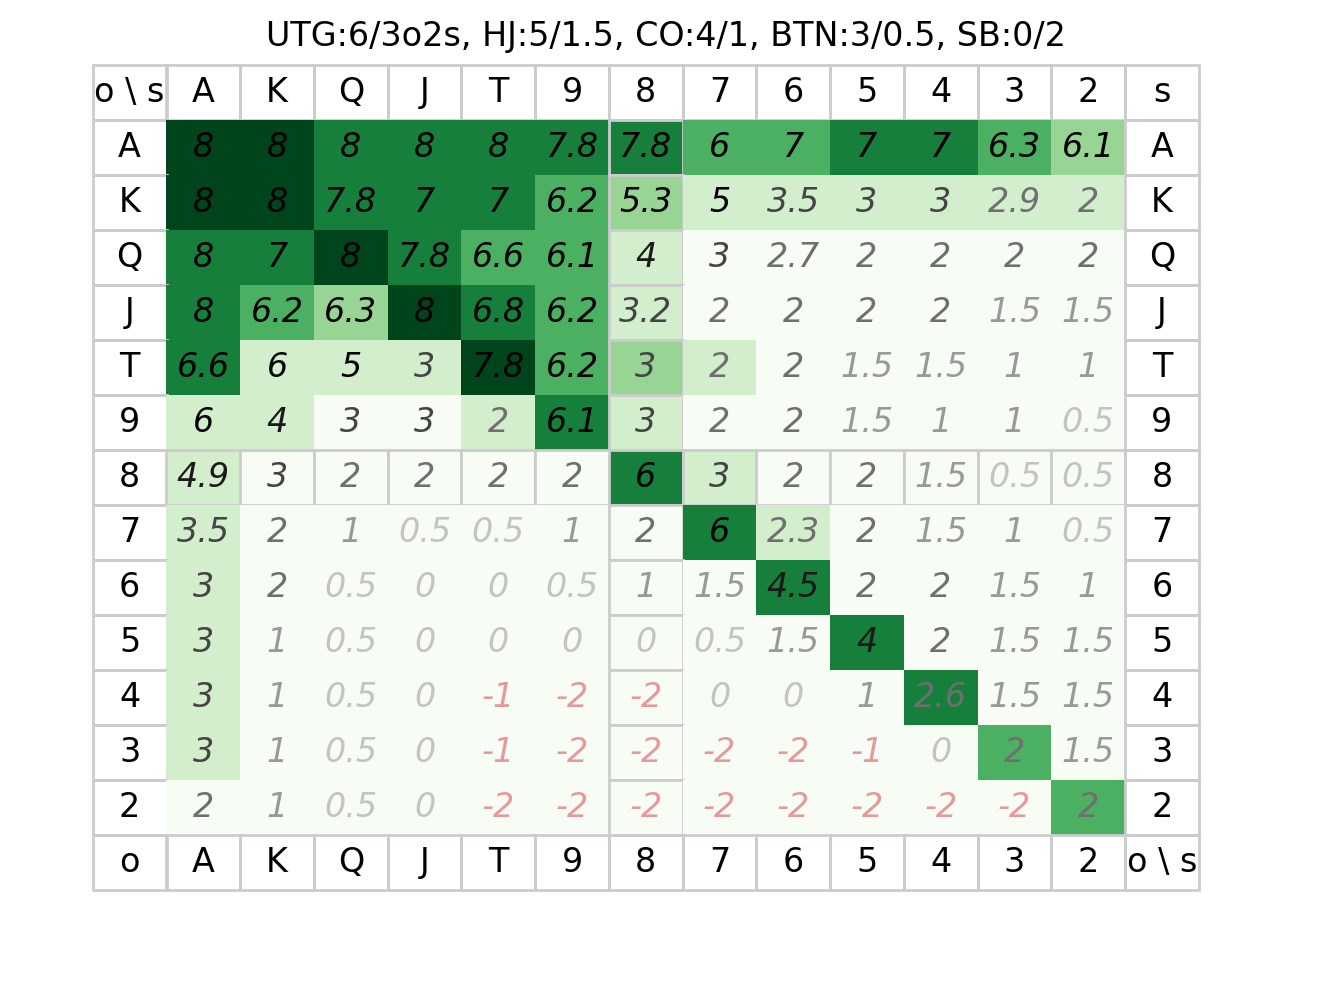
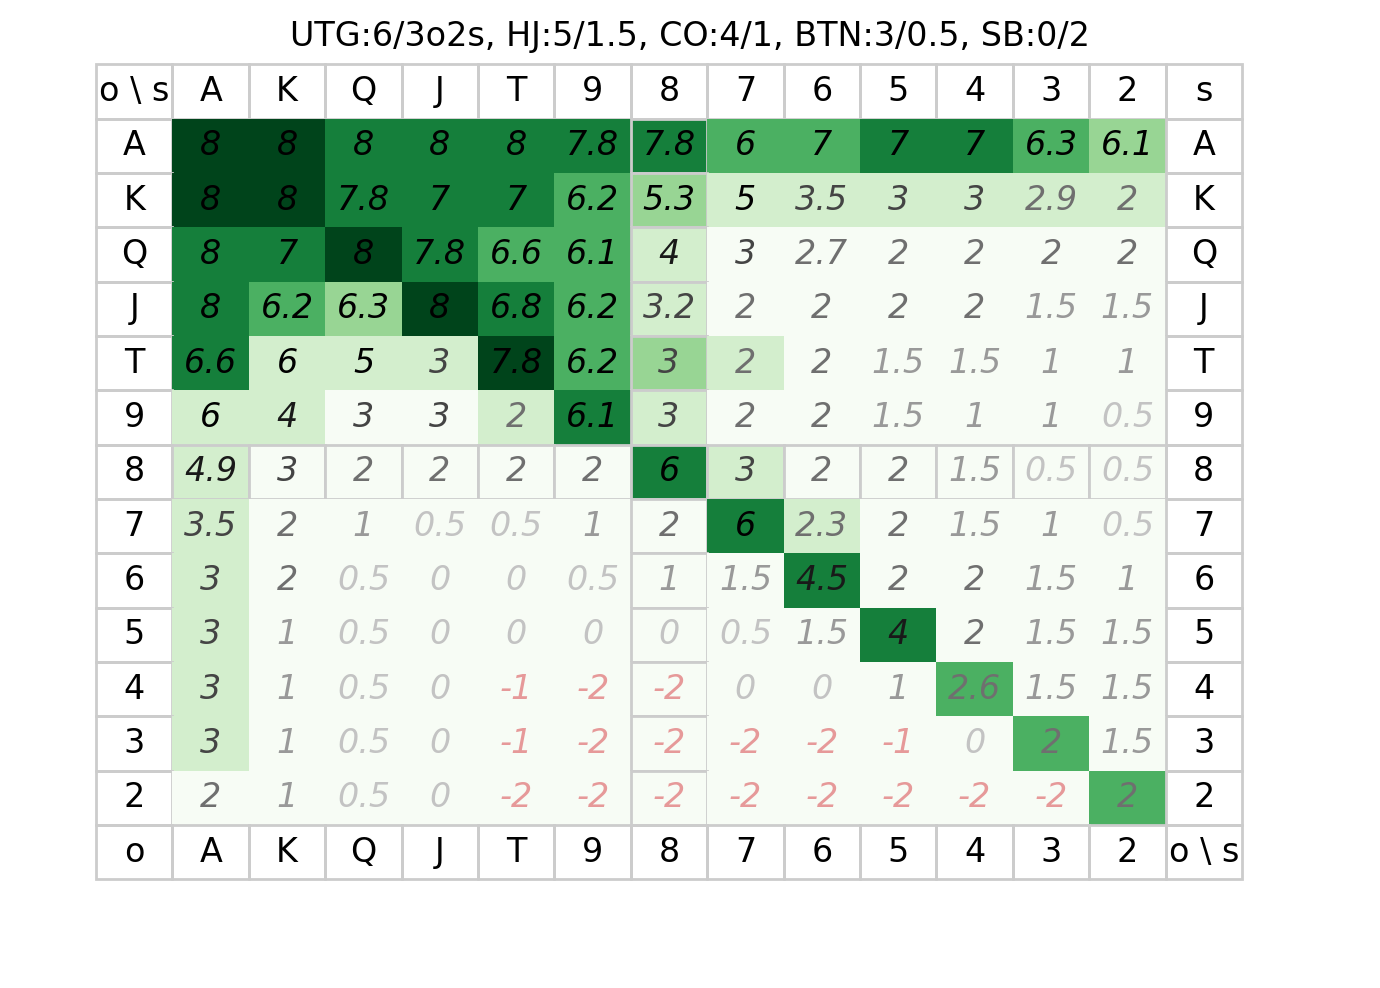
antie

diff --git a/poker.py b/poker.py
@@ -12,7 +12,7 @@ card_data = {
     # raise or fold: BB[0-2], SB[1-2], BTN[2-3], CO[3-4], HJ[4-5], UTG[5-6]
     "AA" : [8, 7], "KK" : [8, 7], "QQ": [8, 7], "JJ": [8, 7],
     "TT" : [7.8, 7], "99" : [6.1, 6], "88": [6, 6], "77": [6, 6],
-    "66" : [4.5, 6], "55" : [4, 6], "44": [2.6, 6], "33": [2, 5], "22": [2, 5],
+    "66" : [4.5, 6], "55" : [4, 6], "44": [2.6, 5], "33": [2, 5], "22": [2, 5],
     "AKs": [8, 7], "AQs": [8, 6], "AJs": [8, 6], "ATs": [8, 6],
     "A9s": [7.8, 6], "A8s": [7.8, 6], "A7s": [6, 5], "A6s": [7, 5],
     "A5s": [7, 6], "A4s": [7, 6], "A3s": [6.3, 5], "A2s": [6.1, 4],
